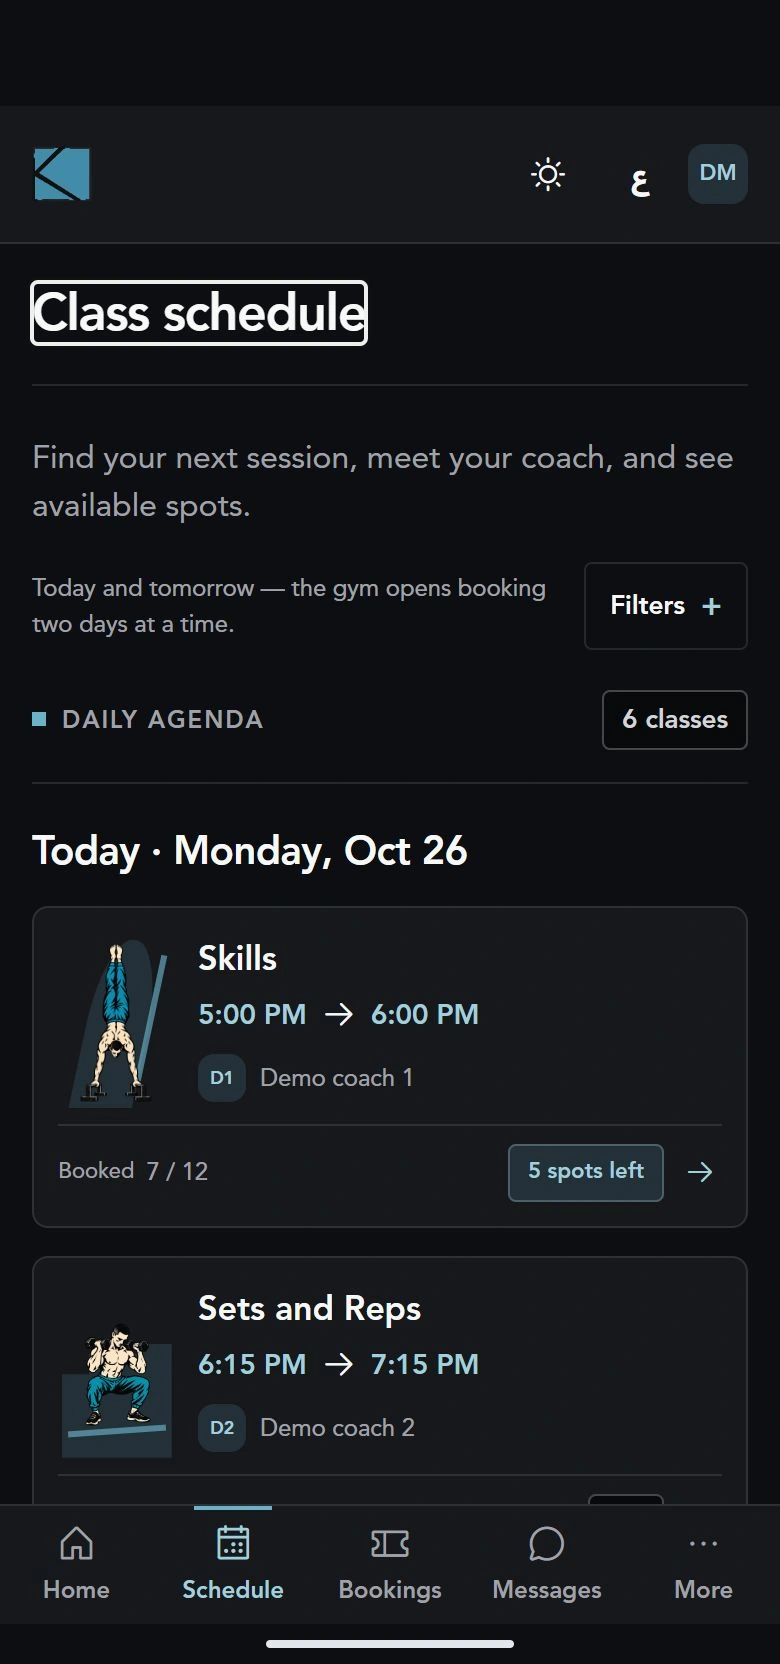
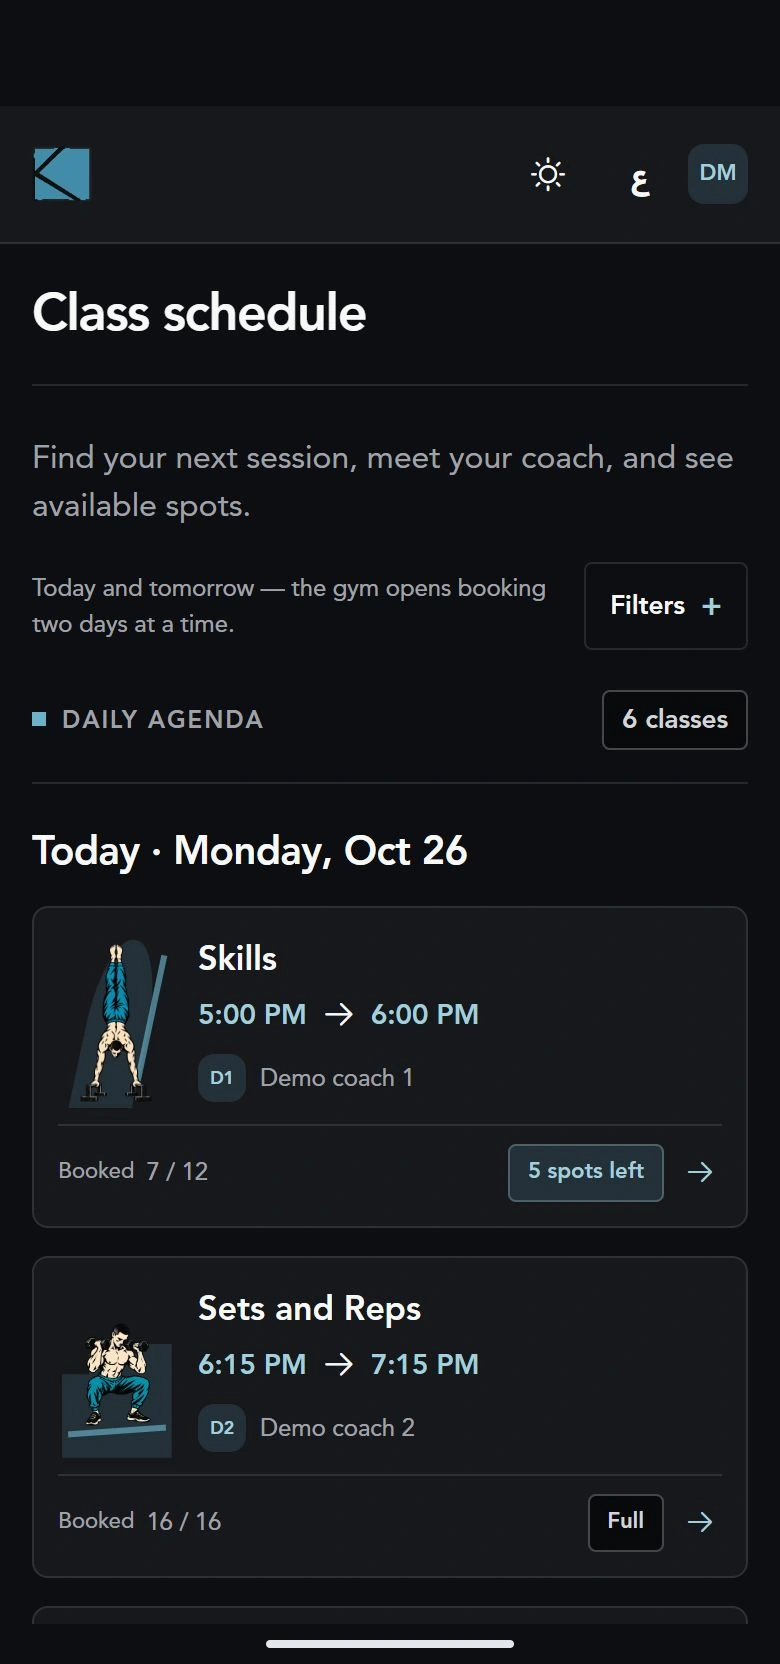
Clean focus outline from member thumbnail capture

diff --git a/site/index.html b/site/index.html
@@ -774,7 +774,7 @@
   <div class="preview-brand"><img src="assets/products/kallos-dark.svg" width="176" height="62" alt=""><span>Staff + member experience</span></div>
   <div class="kg-preview-devices" aria-hidden="true">
     <div class="kg-preview-desktop"><div class="preview-browser"><i></i><i></i><i></i><span>kallosfitness.com</span></div><img src="assets/products/previews/kallos-staff.webp" width="2240" height="1400" loading="lazy" decoding="async" alt=""></div>
-    <div class="kg-preview-phone"><img src="assets/products/previews/kallos-member.webp" width="780" height="1664" loading="lazy" decoding="async" alt=""><span class="preview-island"></span></div>
+    <div class="kg-preview-phone"><img src="assets/products/previews/kallos-member.webp?v=20261103b" width="780" height="1664" loading="lazy" decoding="async" alt=""><span class="preview-island"></span></div>
   </div>
   <div class="preview-foot" aria-hidden="true"><span>Sample data</span><span>Try Kallos ↗</span></div>
 </a></article>
